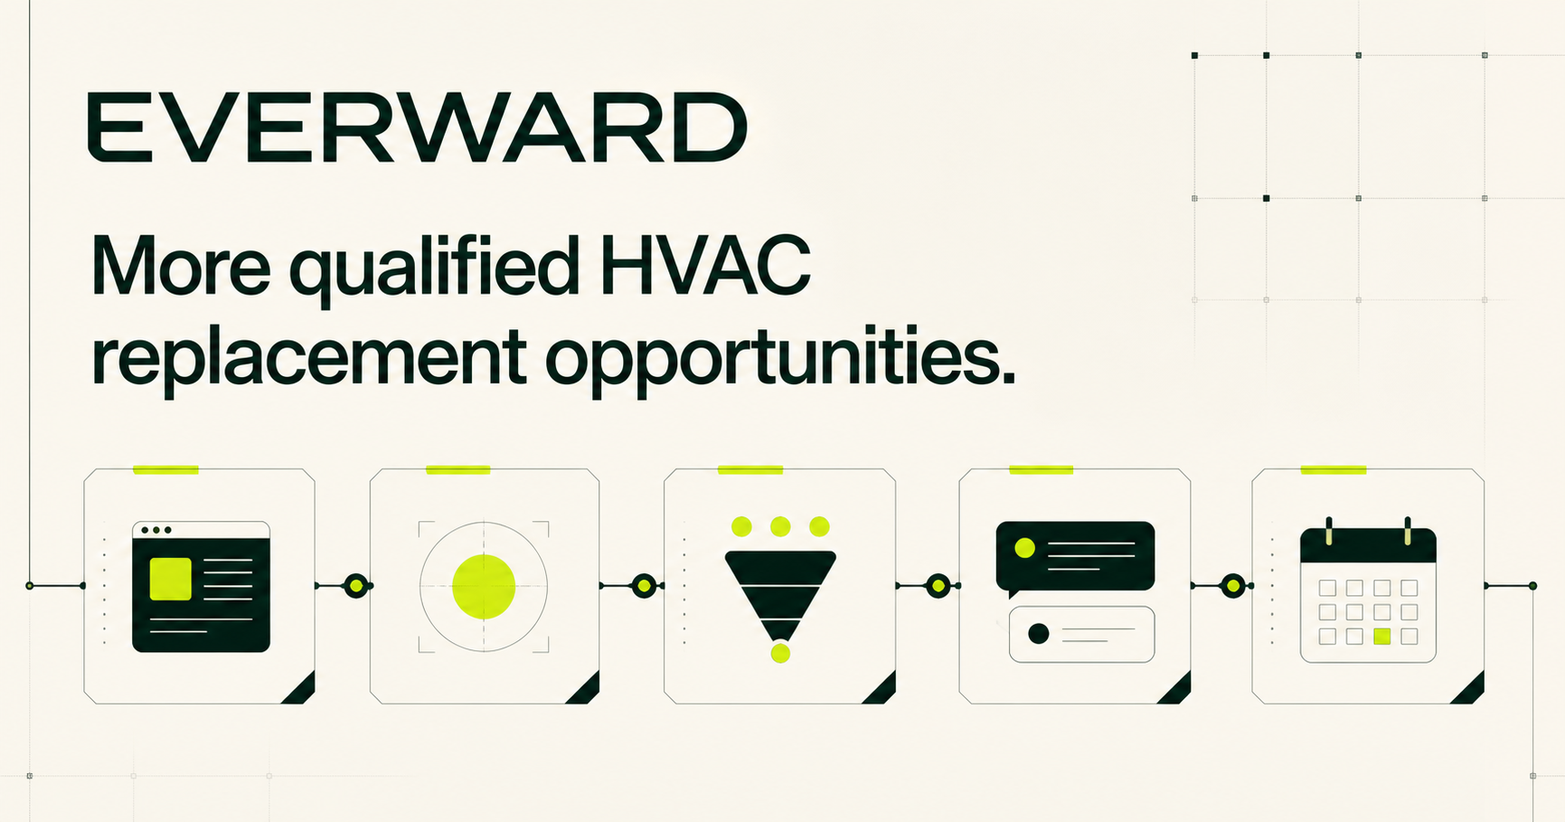
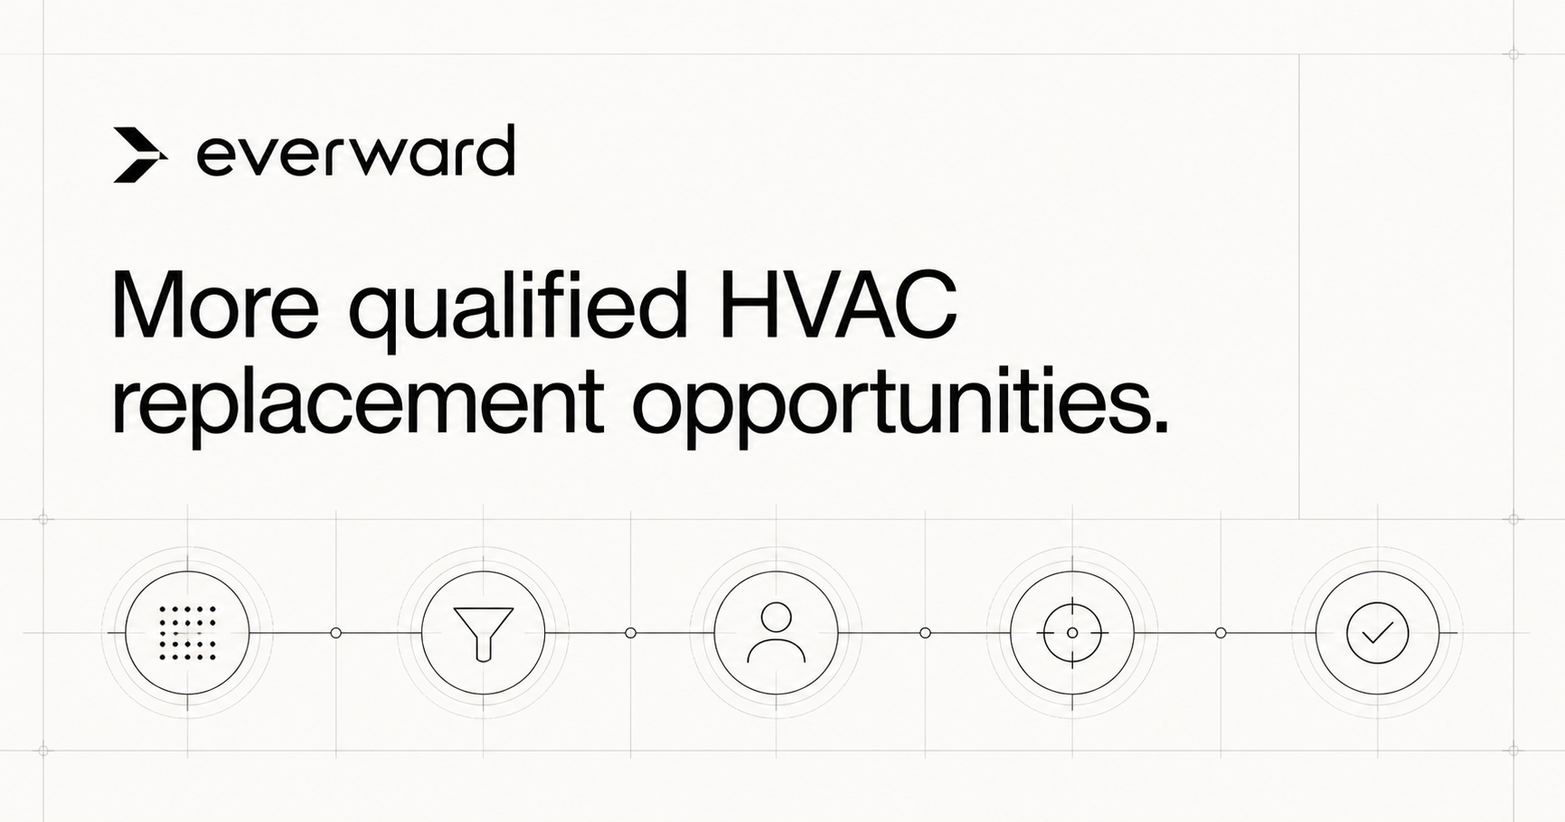
Apply Everward brand identity and booking link

diff --git a/app/globals.css b/app/globals.css
@@ -1,52 +1,54 @@
 @import "tailwindcss";
 
-:root { --ink:#10221d; --paper:#f4f3ec; --paper-dark:#e8e9df; --accent:#d8ff3e; --muted:rgba(16,34,29,.62); --line:rgba(16,34,29,.15); }
+:root { --ink:#080808; --paper:#fafaf8; --paper-dark:#f0f0ed; --accent:#ffffff; --muted:rgba(8,8,8,.62); --line:rgba(8,8,8,.15); }
 * { box-sizing:border-box; }
 html { scroll-behavior:smooth; scroll-padding-top:90px; }
 body { margin:0; background:var(--paper); color:var(--ink); font-family:var(--font-geist-sans), Arial, sans-serif; -webkit-font-smoothing:antialiased; }
 a { color:inherit; text-decoration:none; }
 .section-shell { width:min(1320px, calc(100% - 64px)); margin-inline:auto; }
-.site-header { width:min(1320px, calc(100% - 64px)); height:92px; margin:auto; display:grid; grid-template-columns:1fr auto 1fr; align-items:center; border-bottom:1px solid var(--line); position:sticky; top:0; z-index:20; background:rgba(244,243,236,.9); backdrop-filter:blur(16px); }
-.wordmark { justify-self:start; display:flex; align-items:center; gap:10px; font-weight:700; font-size:20px; letter-spacing:-.04em; }
-.wordmark-mark { display:grid; place-items:center; flex:none; width:28px; height:28px; border-radius:50%; background:var(--ink); color:var(--accent); font-size:13px; }
+.site-header { width:min(1320px, calc(100% - 64px)); height:92px; margin:auto; display:grid; grid-template-columns:1fr auto 1fr; align-items:center; border-bottom:1px solid var(--line); position:sticky; top:0; z-index:20; background:rgba(250,250,248,.92); backdrop-filter:blur(16px); }
+.wordmark { justify-self:start; display:flex; align-items:center; }
+.brand-logo { display:block; width:152px; height:auto; mix-blend-mode:multiply; }
+.brand-logo-light { filter:invert(1); mix-blend-mode:screen; }
+.brand-symbol { display:block; width:28px; height:28px; object-fit:contain; mix-blend-mode:multiply; }
 nav { display:flex; gap:34px; font-size:13px; font-weight:600; }
 nav a { opacity:.66; transition:opacity .2s ease; }
 nav a:hover { opacity:1; }
 .button { display:inline-flex; align-items:center; justify-content:center; gap:30px; min-height:58px; padding:0 24px; background:var(--ink); color:white; font-size:13px; font-weight:700; border:1px solid var(--ink); transition:transform .2s ease, background .2s ease, color .2s ease; }
-.button:hover { transform:translateY(-2px); background:#18342c; }
-.button:focus-visible, a:focus-visible { outline:3px solid #668c13; outline-offset:4px; }
+.button:hover { transform:translateY(-2px); background:#2a2a2a; }
+.button:focus-visible, a:focus-visible { outline:3px solid #666; outline-offset:4px; }
 .button-small { justify-self:end; min-height:44px; gap:18px; padding:0 18px; }
 .mobile-menu { display:none; position:relative; justify-self:end; }.mobile-menu summary { width:42px; height:40px; display:grid; place-items:center; cursor:pointer; list-style:none; border:1px solid var(--line); font-size:10px; font-weight:750; text-transform:uppercase; letter-spacing:.06em; }.mobile-menu summary::-webkit-details-marker{display:none}.mobile-menu>div { width:240px; position:absolute; right:0; top:49px; padding:10px; display:flex; flex-direction:column; gap:2px; border:1px solid var(--line); background:var(--paper); box-shadow:0 20px 45px rgba(16,34,29,.16); }.mobile-menu>div>a:not(.button) { padding:16px 14px; border-bottom:1px solid var(--line); font-size:13px; font-weight:650; }.mobile-menu .button{margin-top:8px;min-height:48px}
 .hero { min-height:calc(100vh - 92px); padding:92px 0 104px; display:grid; grid-template-columns:1.02fr .98fr; gap:76px; align-items:center; }
 .eyebrow { margin:0 0 28px; display:flex; align-items:center; gap:10px; font-size:11px; letter-spacing:.14em; text-transform:uppercase; font-weight:800; }
-.eyebrow span { width:7px; height:7px; border-radius:50%; background:#668c13; box-shadow:0 0 0 4px rgba(102,140,19,.13); }
+.eyebrow span { width:7px; height:7px; background:var(--ink); box-shadow:0 0 0 4px rgba(8,8,8,.08); }
 h1,h2,h3,p { text-wrap:pretty; }
 h1 { margin:0; max-width:760px; font-size:clamp(58px,6.1vw,91px); line-height:.94; letter-spacing:-.065em; font-weight:650; }
 .hero-lede { max-width:650px; margin:34px 0 0; font-size:19px; line-height:1.6; color:var(--muted); }
 .hero-actions { margin-top:42px; display:flex; align-items:center; gap:24px; }
 .hero-actions p { margin:0; max-width:210px; color:rgba(16,34,29,.48); font-size:10px; line-height:1.6; text-transform:uppercase; letter-spacing:.08em; }
-.system-window { min-width:0; border:1px solid var(--line); background:#ebece3; box-shadow:0 28px 70px rgba(16,34,29,.12); }
+.system-window { min-width:0; border:1px solid var(--line); background:#f1f1ee; box-shadow:0 28px 70px rgba(8,8,8,.11); }
 .window-bar { height:50px; padding:0 18px; display:flex; justify-content:space-between; align-items:center; border-bottom:1px solid var(--line); font:700 9px/1 var(--font-geist-mono), monospace; letter-spacing:.09em; color:rgba(16,34,29,.53); }
-.status { display:flex; align-items:center; gap:7px; }.status i,.system-note i,.pilot-note i { display:block; width:6px; height:6px; border-radius:50%; background:#668c13; }
+.status { display:flex; align-items:center; gap:7px; }.status i,.system-note i,.pilot-note i { display:block; width:6px; height:6px; background:var(--ink); }
 .system-flow { padding:14px 26px; }.flow-stage { min-height:78px; display:grid; grid-template-columns:40px 1fr; align-items:center; position:relative; }
 .stage-number { font:600 9px var(--font-geist-mono), monospace; color:rgba(16,34,29,.36); }.flow-stage strong { font-size:21px; letter-spacing:-.035em; }
-.flow-line { position:absolute; left:13px; top:53px; height:51px; width:1px; background:var(--line); overflow:hidden; }.flow-line:after { content:""; position:absolute; inset:0; background:#668c13; transform:translateY(-100%); animation:path 4s ease-in-out infinite; }
+.flow-line { position:absolute; left:13px; top:53px; height:51px; width:1px; background:var(--line); overflow:hidden; }.flow-line:after { content:""; position:absolute; inset:0; background:var(--ink); transform:translateY(-100%); animation:path 4s ease-in-out infinite; }
 .system-note { margin:0 26px 26px; padding:17px 18px; display:flex; align-items:center; justify-content:space-between; background:var(--ink); color:white; font-size:11px; }.system-note span { color:rgba(255,255,255,.55); }.system-note strong { display:flex; align-items:center; gap:8px; font-size:10px; text-transform:uppercase; letter-spacing:.06em; }.system-note i { background:var(--accent); }
 .section-index { margin:0; font:700 10px/1 var(--font-geist-mono), monospace; text-transform:uppercase; letter-spacing:.11em; opacity:.52; }
 .section-heading { display:grid; grid-template-columns:1fr 2fr; gap:40px; align-items:start; }.section-heading h2,.handles-heading h2 { margin:0; font-size:clamp(43px,5vw,72px); line-height:.99; letter-spacing:-.055em; font-weight:620; }
 .system-section { padding:128px 0 112px; background:var(--ink); color:white; }
 .process-track { margin-top:94px; display:grid; grid-template-columns:repeat(4,1fr); position:relative; }.process-track:before { content:""; height:1px; position:absolute; left:12px; right:12px; top:12px; background:rgba(255,255,255,.18); }
-.process-step { padding-right:36px; position:relative; }.process-node { height:45px; display:flex; align-items:flex-start; justify-content:space-between; position:relative; z-index:1; }.process-node span { font:600 10px var(--font-geist-mono), monospace; opacity:.48; }.process-node i { position:absolute; top:6px; left:4px; width:13px; height:13px; border:3px solid var(--ink); border-radius:50%; background:var(--accent); transform:translate(-50%,-50%); box-shadow:0 0 0 1px rgba(216,255,62,.8); }.process-step h3 { margin:0; font-size:26px; letter-spacing:-.035em; }.process-step p { max-width:230px; margin:14px 0 0; color:rgba(255,255,255,.56); font-size:14px; line-height:1.65; }
+.process-step { padding-right:36px; position:relative; }.process-node { height:45px; display:flex; align-items:flex-start; justify-content:space-between; position:relative; z-index:1; }.process-node span { font:600 10px var(--font-geist-mono), monospace; opacity:.48; }.process-node i { position:absolute; top:6px; left:4px; width:13px; height:13px; border:3px solid var(--ink); border-radius:50%; background:white; transform:translate(-50%,-50%); box-shadow:0 0 0 1px rgba(255,255,255,.7); }.process-step h3 { margin:0; font-size:26px; letter-spacing:-.035em; }.process-step p { max-width:230px; margin:14px 0 0; color:rgba(255,255,255,.56); font-size:14px; line-height:1.65; }
 .section-footnote { margin:72px 0 0; padding-top:22px; border-top:1px solid rgba(255,255,255,.14); color:rgba(255,255,255,.48); font-size:11px; text-transform:uppercase; letter-spacing:.08em; }
 .difference { padding-block:142px; display:grid; grid-template-columns:.86fr 1.14fr; gap:90px; align-items:center; }.difference-copy h2 { margin:23px 0 30px; font-size:clamp(43px,4.6vw,68px); line-height:1; letter-spacing:-.055em; font-weight:620; }.difference-copy>p:last-child { max-width:560px; margin:0; color:var(--muted); font-size:17px; line-height:1.7; }
-.comparison { border:1px solid var(--line); background:#ebece3; padding:16px; box-shadow:0 24px 60px rgba(16,34,29,.08); }.compare-row { min-height:153px; padding:25px 24px; display:grid; grid-template-columns:1fr auto 1fr auto 1fr; align-items:center; gap:16px; }.compare-row+ .compare-row { margin-top:10px; }.compare-row>div { display:flex; min-width:0; flex-direction:column; gap:9px; }.compare-row span:first-child { font:700 9px var(--font-geist-mono), monospace; text-transform:uppercase; letter-spacing:.09em; opacity:.48; }.compare-row b { font-size:13px; line-height:1.35; }.compare-row small { font-size:10px; opacity:.5; }.arrow { opacity:.3; }.typical { border:1px solid var(--line); color:rgba(16,34,29,.58); }.everward { background:var(--ink); color:white; box-shadow:0 10px 25px rgba(16,34,29,.13); }.everward span:first-child { color:var(--accent); opacity:1; }
-.handles-section { padding:130px 0; background:var(--paper-dark); border-block:1px solid var(--line); }.handles-heading { display:grid; grid-template-columns:1fr 2fr; gap:40px; }.responsibility-grid { margin-top:80px; display:grid; grid-template-columns:1.1fr .9fr; border:1px solid var(--line); background:var(--paper); }.responsibility-grid article { padding:48px; }.everward-list { border-right:1px solid var(--line); }.list-title { display:flex; align-items:center; gap:13px; }.list-title h3 { margin:0; font-size:23px; letter-spacing:-.04em; }.everward-list ul { margin:36px 0 0; padding:0; list-style:none; columns:2; column-gap:48px; }.everward-list li { min-height:52px; display:flex; align-items:center; gap:14px; break-inside:avoid; border-top:1px solid var(--line); font-size:13px; font-weight:600; }.everward-list li span { color:#668c13; font-size:16px; }.list-kicker { margin:0; font:700 9px var(--font-geist-mono), monospace; text-transform:uppercase; letter-spacing:.1em; opacity:.45; }.contractor-list h3 { margin:18px 0 35px; max-width:420px; font-size:37px; line-height:1.04; letter-spacing:-.05em; }.contractor-list ol { margin:0; padding:0; list-style:none; }.contractor-list li { min-height:58px; display:flex; align-items:center; gap:18px; border-top:1px solid var(--line); font-size:14px; font-weight:620; }.contractor-list li span { font:600 9px var(--font-geist-mono), monospace; opacity:.4; }.pilot-note { margin:34px 0 0; display:flex; align-items:center; gap:9px; color:var(--muted); font-size:11px; }
+.comparison { border:1px solid var(--line); background:#f1f1ee; padding:16px; box-shadow:0 24px 60px rgba(8,8,8,.08); }.compare-row { min-height:153px; padding:25px 24px; display:grid; grid-template-columns:1fr auto 1fr auto 1fr; align-items:center; gap:16px; }.compare-row+ .compare-row { margin-top:10px; }.compare-row>div { display:flex; min-width:0; flex-direction:column; gap:9px; }.compare-row span:first-child { font:700 9px var(--font-geist-mono), monospace; text-transform:uppercase; letter-spacing:.09em; opacity:.48; }.compare-row b { font-size:13px; line-height:1.35; }.compare-row small { font-size:10px; opacity:.5; }.arrow { opacity:.3; }.typical { border:1px solid var(--line); color:rgba(8,8,8,.58); }.everward { background:var(--ink); color:white; box-shadow:0 10px 25px rgba(8,8,8,.13); }.everward span:first-child { color:white; opacity:1; }
+.handles-section { padding:130px 0; background:var(--paper-dark); border-block:1px solid var(--line); }.handles-heading { display:grid; grid-template-columns:1fr 2fr; gap:40px; }.responsibility-grid { margin-top:80px; display:grid; grid-template-columns:1.1fr .9fr; border:1px solid var(--line); background:var(--paper); }.responsibility-grid article { padding:48px; }.everward-list { border-right:1px solid var(--line); }.list-title { display:flex; align-items:center; gap:13px; }.list-title h3 { margin:0; font-size:23px; letter-spacing:-.04em; }.everward-list ul { margin:36px 0 0; padding:0; list-style:none; columns:2; column-gap:48px; }.everward-list li { min-height:52px; display:flex; align-items:center; gap:14px; break-inside:avoid; border-top:1px solid var(--line); font-size:13px; font-weight:600; }.everward-list li span { color:var(--ink); font-size:16px; }.list-kicker { margin:0; font:700 9px var(--font-geist-mono), monospace; text-transform:uppercase; letter-spacing:.1em; opacity:.45; }.contractor-list h3 { margin:18px 0 35px; max-width:420px; font-size:37px; line-height:1.04; letter-spacing:-.05em; }.contractor-list ol { margin:0; padding:0; list-style:none; }.contractor-list li { min-height:58px; display:flex; align-items:center; gap:18px; border-top:1px solid var(--line); font-size:14px; font-weight:620; }.contractor-list li span { font:600 9px var(--font-geist-mono), monospace; opacity:.4; }.pilot-note { margin:34px 0 0; display:flex; align-items:center; gap:9px; color:var(--muted); font-size:11px; }
 .final-cta { padding:140px 0; background:var(--ink); color:white; text-align:center; }.cta-inner { display:flex; align-items:center; flex-direction:column; }.cta-inner h2 { max-width:980px; margin:31px auto 28px; font-size:clamp(52px,6.7vw,98px); line-height:.94; letter-spacing:-.065em; font-weight:620; }.cta-inner>p:nth-child(3) { max-width:590px; margin:0; color:rgba(255,255,255,.6); font-size:17px; line-height:1.65; }.button-accent { margin-top:39px; min-width:190px; background:var(--accent); border-color:var(--accent); color:var(--ink); }.button-accent:hover { background:white; border-color:white; }
-.site-footer { padding:65px 0; background:var(--ink); color:white; border-top:1px solid rgba(255,255,255,.12); }.footer-grid { display:grid; grid-template-columns:1fr 1fr 1fr; align-items:end; }.footer-wordmark { font-size:19px; }.footer-wordmark .wordmark-mark { background:var(--accent); color:var(--ink); }.footer-grid p,.footer-contact span,.footer-meta { color:rgba(255,255,255,.42); font-size:11px; }.footer-contact { display:flex; flex-direction:column; gap:9px; }.footer-contact a { font-size:14px; }.footer-meta { display:flex; justify-content:flex-end; gap:26px; }
+.site-footer { padding:65px 0; background:var(--ink); color:white; border-top:1px solid rgba(255,255,255,.12); }.footer-grid { display:grid; grid-template-columns:1fr 1fr 1fr; align-items:end; }.footer-wordmark .brand-logo { width:148px; }.footer-grid p,.footer-contact span,.footer-meta { color:rgba(255,255,255,.42); font-size:11px; }.footer-contact { display:flex; flex-direction:column; gap:9px; }.footer-contact a { font-size:14px; }.footer-meta { display:flex; justify-content:flex-end; gap:26px; }
 @keyframes path { 0%,15%{transform:translateY(-100%)} 55%,100%{transform:translateY(100%)} }
 @media (max-width:1000px){ .site-header{grid-template-columns:1fr auto}.site-header nav{display:none}.hero{grid-template-columns:1fr;gap:64px;padding-top:70px}.system-window{max-width:720px}.section-heading,.handles-heading{grid-template-columns:1fr;gap:25px}.difference{grid-template-columns:1fr;gap:60px}.responsibility-grid{grid-template-columns:1fr}.everward-list{border-right:0;border-bottom:1px solid var(--line)} }
 @media (max-width:720px){ .section-shell,.site-header{width:calc(100% - 40px)}.system-section,.handles-section{padding:92px 0}.process-track{margin-top:60px;grid-template-columns:1fr}.process-track:before{left:6px;right:auto;top:6px;bottom:30px;width:1px;height:auto}.process-step{padding:0 0 43px 36px}.process-node{position:absolute;left:0;top:0}.process-node i{top:6px}.process-node span{display:none}.process-step p{max-width:360px}.section-footnote{margin-top:20px}.difference{padding-block:95px}.compare-row{grid-template-columns:1fr;gap:9px;min-height:0}.compare-row .arrow{transform:rotate(90deg);width:max-content;margin-left:4px}.responsibility-grid{margin-top:55px}.responsibility-grid article{padding:32px}.everward-list ul{columns:1}.footer-grid{grid-template-columns:1fr 1fr;gap:40px}.footer-meta{grid-column:1/-1;justify-content:flex-start} }
-@media (max-width:520px){ .section-shell,.site-header{width:calc(100% - 36px)}.site-header{height:76px;grid-template-columns:1fr auto auto;gap:8px}.wordmark{font-size:18px}.button-small{min-height:40px;font-size:11px;padding:0 13px;gap:10px}.mobile-menu{display:block}.hero{padding:54px 0 75px;gap:50px;min-height:auto}h1{font-size:47px;line-height:.98}.hero-lede{font-size:16px;line-height:1.55;margin-top:25px}.hero-actions{align-items:flex-start;flex-direction:column;margin-top:31px;gap:17px}.hero-actions .button{width:100%}.hero-actions p{max-width:none}.window-bar{padding:0 13px}.window-bar>span:first-child{display:none}.window-bar{justify-content:flex-end}.system-flow{padding:10px 18px}.flow-stage{min-height:68px}.flow-stage strong{font-size:18px}.flow-line{top:48px;height:41px}.system-note{margin:0 18px 18px;padding:15px 14px}.system-note span{display:none}.system-note{justify-content:flex-end}.section-heading h2,.handles-heading h2,.difference-copy h2{font-size:43px}.system-section{padding-top:82px}.difference{padding-block:82px}.difference-copy>p:last-child{font-size:15px}.comparison{padding:10px}.compare-row{padding:22px 19px}.responsibility-grid{margin-top:45px}.responsibility-grid article{padding:26px 22px}.contractor-list h3{font-size:32px}.handles-section{padding:84px 0}.final-cta{padding:95px 0}.cta-inner h2{font-size:50px}.cta-inner>p:nth-child(3){font-size:15px}.site-footer{padding:55px 0}.footer-grid{grid-template-columns:1fr}.footer-meta{grid-column:auto;flex-direction:column;gap:8px}.footer-contact{margin-top:5px} }
+@media (max-width:520px){ .section-shell,.site-header{width:calc(100% - 36px)}.site-header{height:76px;grid-template-columns:1fr auto auto;gap:8px}.brand-logo{width:140px}.button-small{min-height:40px;font-size:11px;padding:0 13px;gap:10px}.mobile-menu{display:block}.hero{padding:54px 0 75px;gap:50px;min-height:auto}h1{font-size:47px;line-height:.98}.hero-lede{font-size:16px;line-height:1.55;margin-top:25px}.hero-actions{align-items:flex-start;flex-direction:column;margin-top:31px;gap:17px}.hero-actions .button{width:100%}.hero-actions p{max-width:none}.window-bar{padding:0 13px}.window-bar>span:first-child{display:none}.window-bar{justify-content:flex-end}.system-flow{padding:10px 18px}.flow-stage{min-height:68px}.flow-stage strong{font-size:18px}.flow-line{top:48px;height:41px}.system-note{margin:0 18px 18px;padding:15px 14px}.system-note span{display:none}.system-note{justify-content:flex-end}.section-heading h2,.handles-heading h2,.difference-copy h2{font-size:43px}.system-section{padding-top:82px}.difference{padding-block:82px}.difference-copy>p:last-child{font-size:15px}.comparison{padding:10px}.compare-row{padding:22px 19px}.responsibility-grid{margin-top:45px}.responsibility-grid article{padding:26px 22px}.contractor-list h3{font-size:32px}.handles-section{padding:84px 0}.final-cta{padding:95px 0}.cta-inner h2{font-size:50px}.cta-inner>p:nth-child(3){font-size:15px}.site-footer{padding:55px 0}.footer-grid{grid-template-columns:1fr}.footer-meta{grid-column:auto;flex-direction:column;gap:8px}.footer-contact{margin-top:5px} }
 @media (max-width:360px){ .button-small{display:none} }
-@media (max-width:340px){ .section-shell,.site-header{width:calc(100% - 28px)}.wordmark-mark{width:26px;height:26px}h1{font-size:40px}.system-note strong{font-size:9px}.section-heading h2,.handles-heading h2,.difference-copy h2{font-size:37px}.cta-inner h2{font-size:43px}.responsibility-grid article{padding-inline:17px} }
+@media (max-width:340px){ .section-shell,.site-header{width:calc(100% - 28px)}.brand-logo{width:132px}h1{font-size:40px}.system-note strong{font-size:9px}.section-heading h2,.handles-heading h2,.difference-copy h2{font-size:37px}.cta-inner h2{font-size:43px}.responsibility-grid article{padding-inline:17px} }
 @media (prefers-reduced-motion:reduce){ html{scroll-behavior:auto}.flow-line:after{animation:none;transform:none}.button,nav a{transition:none} }

diff --git a/app/page.tsx b/app/page.tsx
@@ -1,4 +1,5 @@
 import { BOOKING_URL } from "@/lib/site-config";
+import Image from "next/image";
 
 const heroStages = ["Meta ads", "Homeowner", "Qualified", "Follow-up", "Estimate"];
 const process = [
@@ -10,14 +11,18 @@ const process = [
 const everwardHandles = ["Meta advertising", "Landing pages & lead capture", "Homeowner qualification", "CRM infrastructure", "Automated SMS follow-up", "Instant lead notifications", "Estimate booking system", "Campaign monitoring & optimization"];
 
 function BookingLink({ className = "button", label = "Book a call" }: { className?: string; label?: string }) {
-  return <a className={className} href={BOOKING_URL}>{label}<span aria-hidden="true">↗</span></a>;
+  return <a className={className} href={BOOKING_URL} target="_blank" rel="noopener noreferrer">{label}<span aria-hidden="true">↗</span></a>;
+}
+
+function BrandLogo({ footer = false }: { footer?: boolean }) {
+  return <Image className={`brand-logo${footer ? " brand-logo-light" : ""}`} src="/everward-logo.png" width={214} height={45} alt="Everward" priority={!footer} />;
 }
 
 export default function Home() {
   return (
     <main>
       <header className="site-header">
-        <a className="wordmark" href="#top" aria-label="Everward home"><span className="wordmark-mark">E</span><span>Everward</span></a>
+        <a className="wordmark" href="#top" aria-label="Everward home"><BrandLogo /></a>
         <nav aria-label="Primary navigation"><a href="#system">How it works</a><a href="#handles">What we handle</a></nav>
         <BookingLink className="button button-small" />
         <details className="mobile-menu">
@@ -73,7 +78,7 @@ export default function Home() {
         <div className="section-shell">
           <div className="handles-heading"><p className="section-index">03 / The handoff</p><h2>We build the front end.<br />Your team closes the work.</h2></div>
           <div className="responsibility-grid">
-            <article className="everward-list"><div className="list-title"><span className="wordmark-mark">E</span><h3>Everward handles</h3></div><ul>{everwardHandles.map((item) => <li key={item}><span>+</span>{item}</li>)}</ul></article>
+            <article className="everward-list"><div className="list-title"><Image className="brand-symbol" src="/favicon.png" width={28} height={28} alt="" /><h3>Everward handles</h3></div><ul>{everwardHandles.map((item) => <li key={item}><span>+</span>{item}</li>)}</ul></article>
             <article className="contractor-list"><p className="list-kicker">Your team</p><h3>Focuses on what it does best.</h3><ol><li><span>01</span>Talk to qualified homeowners</li><li><span>02</span>Run estimates</li><li><span>03</span>Close replacement work</li></ol><p className="pilot-note"><i /> Performance-based, low-risk pilot structure.</p></article>
           </div>
         </div>
@@ -83,7 +88,7 @@ export default function Home() {
         <div className="section-shell cta-inner"><p className="section-index">Start a conversation</p><h2>Want to see if it makes sense for your market?</h2><p>We’ll look at your service area, the replacement jobs you want more of and whether the Everward system is a fit.</p><BookingLink className="button button-accent" /></div>
       </section>
 
-      <footer className="site-footer"><div className="section-shell footer-grid"><div><a className="wordmark footer-wordmark" href="#top"><span className="wordmark-mark">E</span><span>Everward</span></a><p>British Columbia, Canada</p></div><div className="footer-contact"><span>Direct contact</span><a href="mailto:hello@everward.ca">hello@everward.ca</a></div><div className="footer-meta"><span>© 2026 Everward</span><span aria-label="Legal pages forthcoming">Privacy · Terms</span></div></div></footer>
+      <footer className="site-footer"><div className="section-shell footer-grid"><div><a className="wordmark footer-wordmark" href="#top" aria-label="Everward home"><BrandLogo footer /></a><p>British Columbia, Canada</p></div><div className="footer-contact"><span>Direct contact</span><a href="mailto:hello@everward.ca">hello@everward.ca</a></div><div className="footer-meta"><span>© 2026 Everward</span><span aria-label="Legal pages forthcoming">Privacy · Terms</span></div></div></footer>
     </main>
   );
 }

diff --git a/lib/site-config.ts b/lib/site-config.ts
@@ -1,1 +1,1 @@
-export const BOOKING_URL = process.env.NEXT_PUBLIC_BOOKING_URL || "mailto:hello@everward.ca?subject=Everward%20intro%20call";
+export const BOOKING_URL = process.env.NEXT_PUBLIC_BOOKING_URL || "https://calendar.app.google/sqs2iTmTbKPKM2gf9";

diff --git a/README.md b/README.md
@@ -4,7 +4,7 @@ Production one-page website for Everward, a residential HVAC lead-generation par
 
 ## Booking link
 
-Every **Book a Call** button reads from `NEXT_PUBLIC_BOOKING_URL` in `lib/site-config.ts`. Copy `.env.example` to `.env.local` and add the GoHighLevel calendar URL or `https://book.everward.ca` when it is available. Until then, the site falls back to an email introduction link.
+Every **Book a Call** button reads from `NEXT_PUBLIC_BOOKING_URL` in `lib/site-config.ts`. The production fallback is the current Google Calendar booking page; a hosted environment value can replace it later without changing the buttons individually.
 
 ## Local development
 
